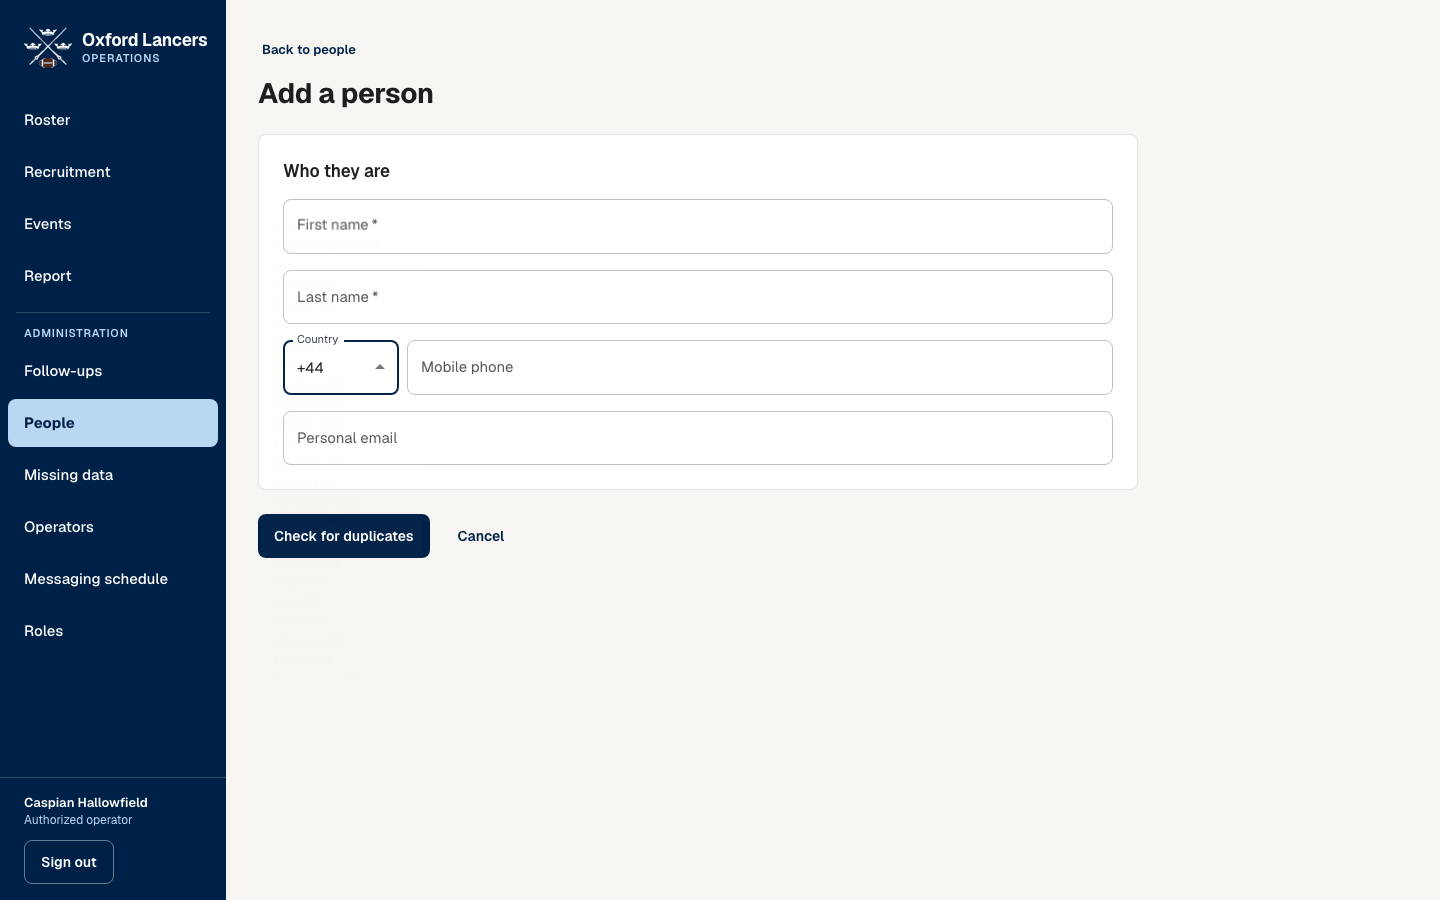
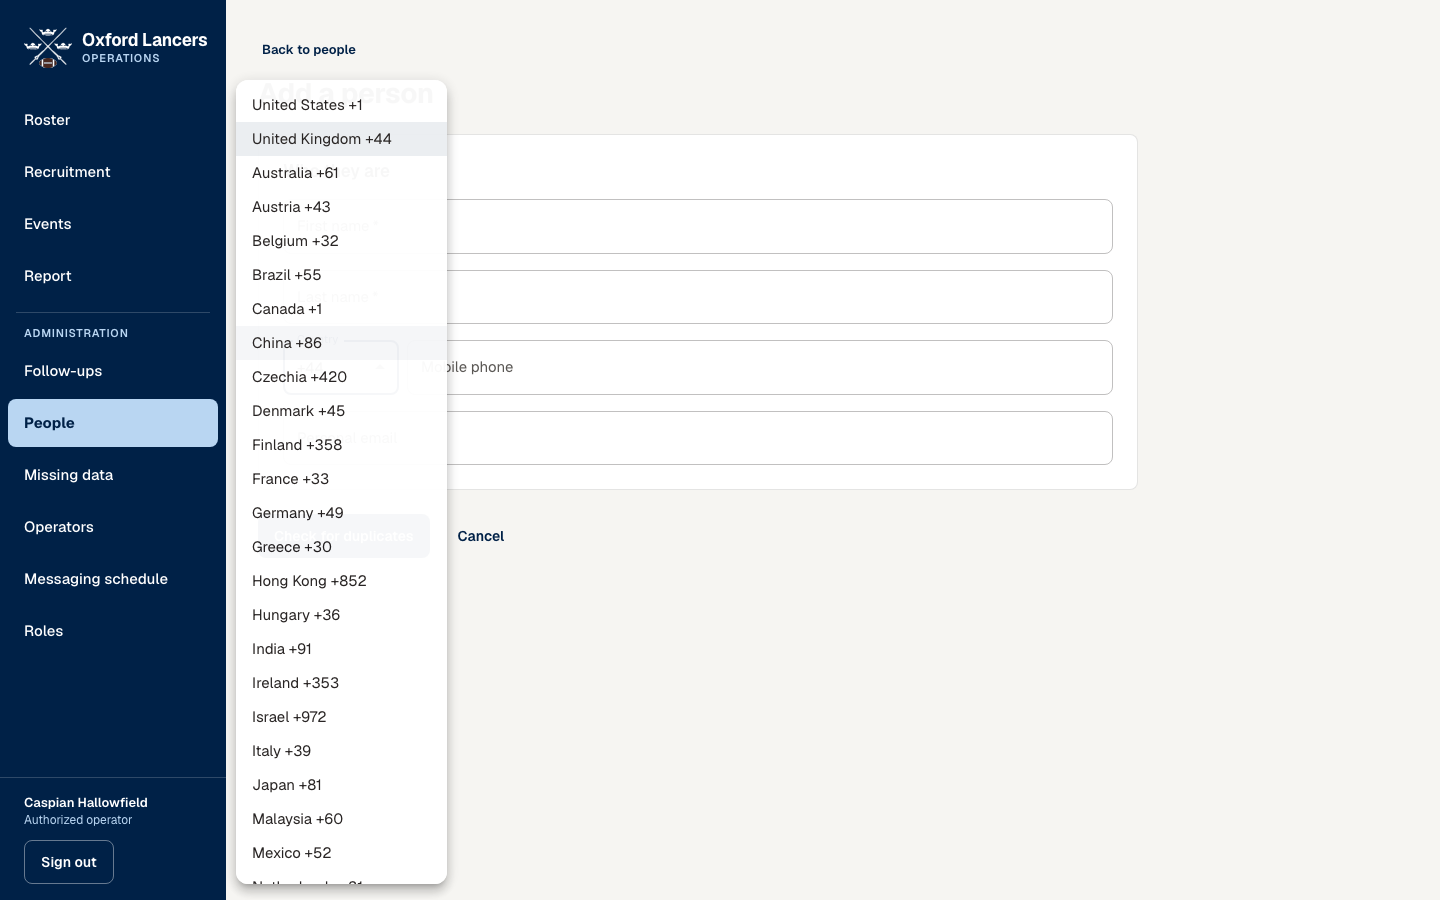
LAN-355: capture the country menu open
Review advisory A3: docs/ux/review/LAN-353/LAN-355/ captured the closed
calling-code control mid-transition, not the reordered list the issue
is actually about. The README text already described an open menu; the
files did not match it.

Recaptured both widths against /operate/people/new on a local
production build, clicking the Country control open and waiting for
the "United States +1" option before screenshotting, so the popup is
actually on screen: United States +1, United Kingdom +44, then the
alphabetical tail (Australia, Austria, Belgium, ...). Noted the
recapture and why in the README.

diff --git a/docs/ux/review/LAN-353/README.md b/docs/ux/review/LAN-353/README.md
@@ -37,6 +37,8 @@ reach.
 | `LAN-355/desktop_country-menu.png`  | The calling-code menu open on `/operate/people/new` at 1440 |
 | `LAN-355/phone375_country-menu.png` | The same at a measured 375                                  |
 
+Recaptured 2026-09-16: the earlier pair showed the closed control mid-transition
+rather than the reordered list, so these are retaken with the menu held open.
 The menu reads **United States +1, United Kingdom +44, Australia +61, Austria
 +43 …** at both widths. The closed control still shows `+44`, and the number box
 and its validation are untouched.
